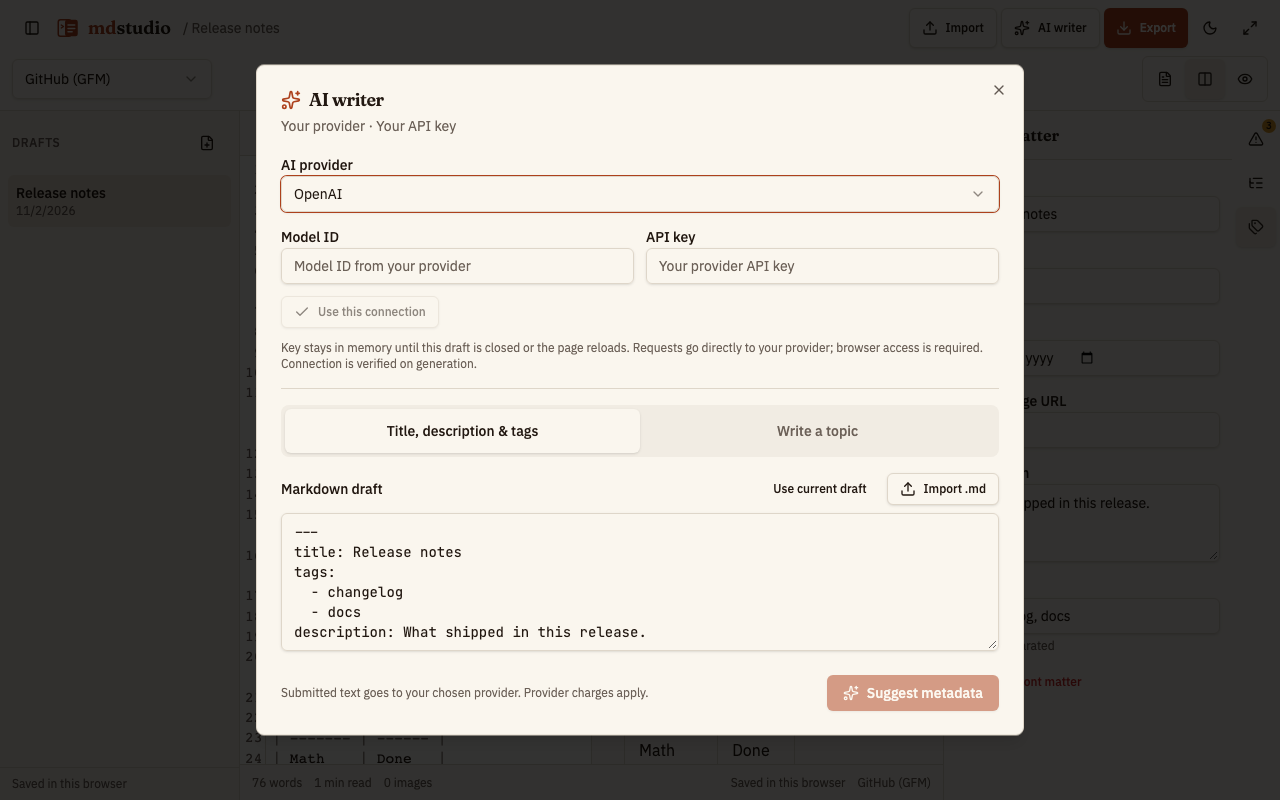
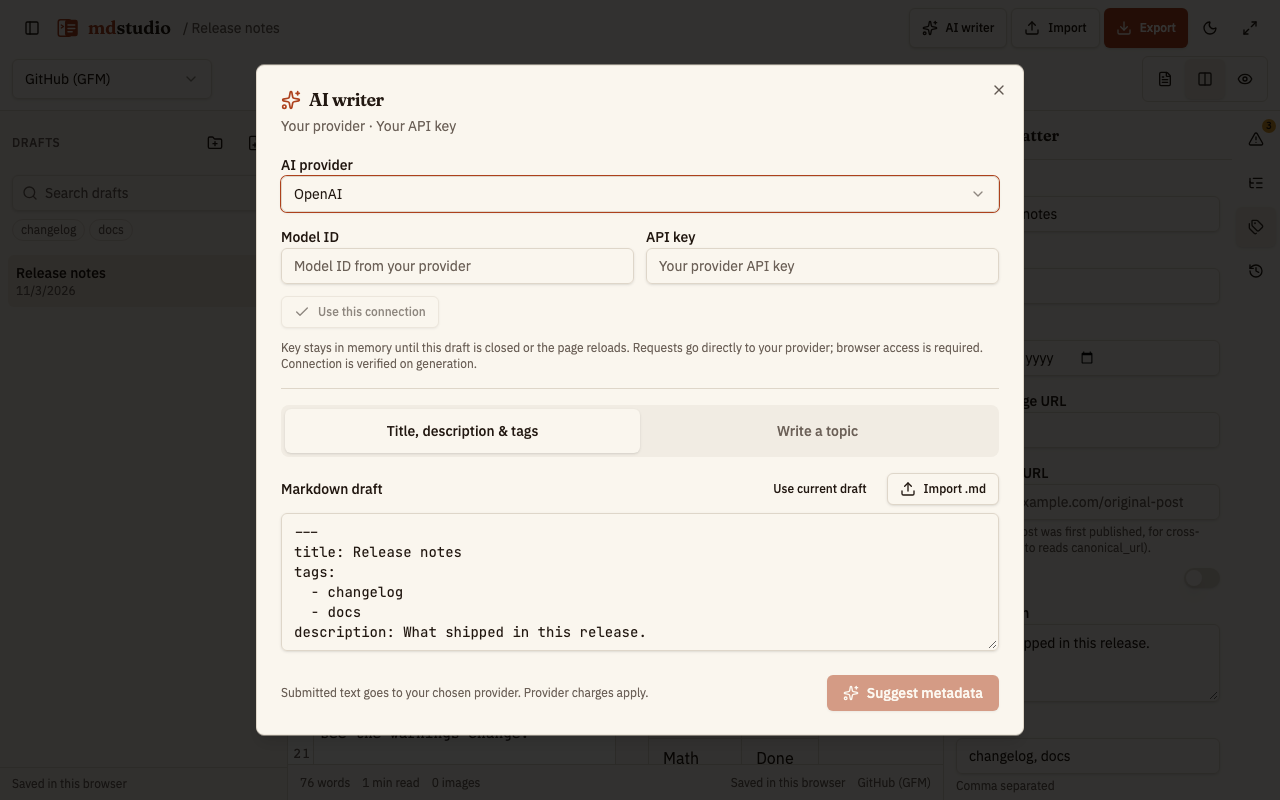
docs: refresh the screenshots and the docs and copy that describe the UI
- Screenshot script: open the Checks panel for its shot (it starts closed below 1536px) and
  add the rules dialog, export menu, history compare and library.
- Regenerate every screenshot; README, UI spec and feature roadmap now match the current UI
  and mark what is and is not done.
- Home page, structured data, FAQ and llms.txt describe the library, history, ZIP import and
  export, custom rules and offline use. The copy test now only bans claims that are not built
  (cloud sync, collaboration, real-time).
- Fix stale statuses in the product and system specs and the roadmap.
- PR template and CONTRIBUTING ask for a screenshot refresh when the UI changes.

diff --git a/src/lib/site/seo-content.ts b/src/lib/site/seo-content.ts
@@ -31,7 +31,12 @@ export const FEATURE_LIST = [
   "KaTeX math and Mermaid diagrams",
   "Local-first drafts stored in the browser (IndexedDB), no account needed",
   "Import .md files and paste from Google Docs, Notion and the web",
-  "Export clean UTF-8 Markdown or standalone HTML",
+  "Export clean UTF-8 Markdown or standalone HTML, or every draft at once as a ZIP",
+  "Import ZIP archives and whole folders of Markdown files",
+  "Search, tag filters and folders for your drafts, all kept in the browser",
+  "Version history with a side-by-side compare and one-click restore",
+  "Custom checker rules and publication standards, shareable as a file",
+  "Works offline and installs as an app",
   "Bring-your-own-key AI writing helpers",
   "Open source under the MIT license, self-hostable with Docker",
 ];
@@ -65,6 +70,16 @@ export const FAQ: Faq[] = [
     question: "Are my documents private?",
     answer:
       "Yes. Drafts are saved in your browser's IndexedDB and are not uploaded anywhere. There is no account to create. If you use the optional AI helpers, your API key stays in memory for the session and requests go directly from your browser to the provider you choose.",
+  },
+  {
+    question: "Does mdstudio work offline?",
+    answer:
+      "Yes. After your first visit the studio opens and keeps working without a connection, saves your drafts in the browser, and can be installed as an app. Only the optional AI helpers need a network connection.",
+  },
+  {
+    question: "Can I organise many drafts and go back to an earlier version?",
+    answer:
+      "Yes. Search your drafts, filter them by tag and keep them in folders. mdstudio saves versions as you write, shows a side-by-side comparison with the current draft, and restores any version in one click. You can also export every draft as a ZIP.",
   },
   {
     question: "Which Markdown flavors and platforms does it check?",

diff --git a/src/routes/index.tsx b/src/routes/index.tsx
@@ -10,6 +10,9 @@ import {
   ShieldCheck,
   Upload,
   Eye,
+  FolderTree,
+  History,
+  WifiOff,
 } from "lucide-react";
 import { Button } from "@/components/ui/button";
 import { SiteFooter } from "@/components/site/SiteFooter";
@@ -70,6 +73,21 @@ const features = [
     icon: FileDown,
     title: "Clean export",
     body: "Download or copy .md with UTF-8 and LF endings, optional normalizing, and self-contained images.",
+  },
+  {
+    icon: FolderTree,
+    title: "A library that scales",
+    body: "Search every draft, filter by tag, organise folders by drag and drop, and move everything as a ZIP.",
+  },
+  {
+    icon: History,
+    title: "Version history",
+    body: "Versions are kept as you write. Compare any of them side by side with the draft and restore it.",
+  },
+  {
+    icon: WifiOff,
+    title: "Works offline",
+    body: "Open it with no connection and keep writing. Install it as an app if you like.",
   },
   {
     icon: Lock,

diff --git a/src/lib/site/seo.test.ts b/src/lib/site/seo.test.ts
@@ -61,7 +61,8 @@ describe("brand copy", () => {
   });
   it("makes no claims the product cannot back up yet", () => {
     const text = [BRAND.description, ...FEATURE_LIST, ...FAQ.map((f) => f.answer)].join(" ");
-    expect(text).not.toMatch(/offline|sync|collaborat|real-time/i);
+    // offline use is real (service worker, tested), cloud sync and collaboration are not built yet
+    expect(text).not.toMatch(/cloud sync|sync across|collaborat|real-time/i);
   });
 });
 

diff --git a/docs/FEATURES_ROADMAP.md b/docs/FEATURES_ROADMAP.md
@@ -6,25 +6,27 @@ Status: ✅ done · 🔜 next · 🗓 later. Each feature lists acceptance crite
 Editor, strict preview, scroll sync, profiles + portability checker, import/drag-drop, rich paste → MD, exports (md, self-contained md, html copy, standalone html, normalize), front matter form, outline, stats, focus mode, IndexedDB library with autosave, image compression, BYOK AI (metadata + write), responsive phone/tablet/desktop, 31 tests.
 
 ## Phase 1 — Writer polish 🔜
-1. **Dark mode toggle** (tokens exist). AC: persists per device; preview + editor + hljs themed.
+1. ✅ **Dark mode toggle** (tokens exist). AC: persists per device; preview + editor + hljs themed.
 2. **Command palette** (cmdk, Mod-P): every action reachable. AC: fuzzy search, keyboard only.
 3. **Quick fixes in Checks**: one-click fix per rule (e.g. trailing-break → backslash, mixed bullets → normalize, wiki-link → standard link). AC: fix changes only the flagged range; undoable.
 4. **Find & replace with regex**, word goal, session timer.
-5. **Table editor** (grid UI → GFM table) and **link/image dialogs** with alt-text enforcement (checker rule: missing alt).
-6. **More checks**: heading level skips, duplicate headings/anchors, broken internal anchors, missing alt text, overly long lines in tables, empty links.
-7. **Paste-image from clipboard** and image manager panel (rename, delete unused, size).
+5. **Table editor** (grid UI → GFM table) and **link/image dialogs** with alt-text enforcement (checker rule: missing alt). Done: link and image dialogs, the missing-alt rule, a table dialog and table cell commands. Not done: a grid UI.
+6. **More checks**: heading level skips, duplicate headings/anchors, broken internal anchors, missing alt text, overly long lines in tables, empty links. Done: heading level skips and a single H1 (the heading-structure standard) and missing alt text. Not done: duplicate headings, broken anchors, empty links, long table lines.
+7. **Paste-image from clipboard** and image manager panel (rename, delete unused, size). Done: paste and drop with compression. Not done: the image manager panel.
 8. **Spellcheck / grammar** toggle (browser native first).
 9. ✅ **Math (KaTeX) and Mermaid**, profile-gated: rendered only where the target platform renders them, flagged elsewhere. AC: sanitize before KaTeX (`trust: false`), Mermaid `securityLevel: "strict"` and lazy-loaded, KaTeX CSS/fonts self-hosted, standalone HTML export embeds both.
-10. **Complete formatting toolbar**: every Markdown/GFM construct and profile extension (headings 1-6, emphasis, code, links, images, quotes, lists, task lists, tables, rules, footnotes, math, diagrams, alerts). AC: grouped, overflow menu on phones, shortcuts in tooltips, tools flagged when the profile can't render them, edit actions are pure tested functions.
-11. **Obsidian profile rendering**: `==highlight==` renders as a marker (done); render `[[wiki-links]]` in the Obsidian profile so the preview matches the platform.
-12. **Studio polish**: rename draft, canonical URL and draft toggle in front matter.
+10. ✅ **Complete formatting toolbar**: every Markdown/GFM construct and profile extension (headings 1-6, emphasis, code, links, images, quotes, lists, task lists, tables, rules, footnotes, math, diagrams, alerts). AC: grouped, overflow menu on phones, shortcuts in tooltips, tools flagged when the profile can't render them, edit actions are pure tested functions.
+11. ✅ **Obsidian profile rendering**: `==highlight==` renders as a marker (done); render `[[wiki-links]]` in the Obsidian profile so the preview matches the platform.
+12. ✅ **Studio polish**: rename draft, canonical URL and draft toggle in front matter.
+13. ✅ **Custom checker rules**: turn built-in rules on or off and change their severity, publication standards, your own text or regex rules, shareable as JSON and overridable per draft.
+14. ✅ **Click-through sync**: click a block in the preview to jump to its source line, and scroll sync by line.
 
 ## Phase 2 — Library & organization 🔜
-1. **Full-text search** across drafts (MiniSearch in a worker).
-2. **Folders/collections, tags, pin, status** (idea / draft / review / published).
+1. ✅ **Full-text search** across drafts (done in memory with tag filtering; no search index or worker was needed).
+2. **Folders/collections, tags, pin, status** (idea / draft / review / published). Done: folders (drag and drop, rename, delete) and tags from front matter. Not done: pin and status.
 3. **Trash** with 30-day restore.
-4. **Version history**: snapshot on idle (every N minutes / significant change) and before AI apply / import; diff viewer; restore. Store `document_versions` in IndexedDB.
-5. **Bulk import/export**: zip of `.md` + `images/` (JSZip); import a folder/zip preserving relative images.
+4. ✅ **Version history**: snapshot every few minutes, on demand and before a restore; side-by-side diff; restore. (Snapshots before AI apply and import are not taken.)
+5. ✅ **Bulk import/export**: zip of `.md` + `images/` (own ZIP reader and writer, no JSZip); import a folder or ZIP preserving relative images.
 6. **Templates**: blog post, release notes, README, tutorial; per-platform front matter (Astro, Hugo, Jekyll, Docusaurus, dev.to, Hashnode). AC: front matter keys match platform docs.
 
 ## Phase 3 — Publishing 🗓
@@ -44,7 +46,7 @@ AC: dry-run view; failures shown with fix; no token persisted unless user opts i
 6. Workspaces/teams with roles (owner/editor/viewer) stored in a separate roles table.
 
 ## Phase 5 — Platform & quality 🗓
-1. **PWA**: installable, offline, file-handling for `.md` (File System Access API save-in-place on desktop).
+1. **PWA**: installable, offline, file-handling for `.md` (File System Access API save-in-place on desktop). Done: installable and offline. Not done: file handling.
 2. **Optional rendering extensions** behind explicit profile: callouts (GitHub alerts) — always flagged as non-portable outside that profile. Math (KaTeX) and Mermaid moved up: see Phase 1, item 9.
 3. **AI extras** (still BYOK): rewrite selection, summarize, SEO check, alt-text suggestions, translate, tone; diff review before apply; token/cost estimate; local models via OpenAI-compatible (Ollama).
 4. **Accessibility**: WCAG AA contrast, full keyboard, screen-reader labels, reduced motion.

diff --git a/README.md b/README.md
@@ -27,17 +27,25 @@ mdstudio keeps your **raw Markdown as the single source of truth**. The preview 
 
 ## Features
 
-- **Faithful live preview.** Strict CommonMark and GitHub Flavored Markdown, sanitized, with syntax-highlighted code.
+- **Faithful live preview.** Strict CommonMark and GitHub Flavored Markdown, sanitized, with syntax-highlighted code. Scrolling stays aligned line by line, and clicking a block in the preview puts the editor cursor on its source line.
 - **Portability checker.** Raw HTML, local images and links, base64 images, wiki-links, `==highlights==`, math, Mermaid, trailing-space line breaks, missing alt text, unclosed tags and more. Every issue is clickable. Turn rules on or off, add publication standards (title and description length, required front matter, heading structure) and your own text or regex rules, and share them as a JSON file.
 - **Target profiles.** Strict CommonMark, GitHub, dev.to / Hashnode and Obsidian. The preview, the checks and the toolbar warnings follow your choice.
 - **Complete formatting toolbar.** Marks, headings, lists, task lists, links, images, footnotes, rules, code blocks, tables with cell navigation, GitHub alerts, math, diagrams and HTML helpers. Fully keyboard accessible.
 - **Math and diagrams.** KaTeX and Mermaid, rendered on demand, themed for light and dark.
 - **Local-first and private.** Drafts autosave to your browser's IndexedDB. No account, no uploads.
-- **Import and export.** Open `.md` files or paste from Google Docs, Notion and the web. Export clean UTF-8 Markdown (LF endings), self-contained Markdown with embedded images, or standalone HTML.
+- **A library that scales.** Search every draft, filter by tag, organise drafts in folders (drag and drop), and rename them without touching the text.
+- **Version history.** Versions are kept automatically as you write; compare any of them side by side with the current draft and restore it.
+- **Works offline.** The studio keeps working with no connection and can be installed as an app.
+- **Import and export.** Open `.md` files, a ZIP or a whole folder, or paste from Google Docs, Notion and the web. Export clean UTF-8 Markdown (LF endings), self-contained Markdown with embedded images, standalone HTML, or every draft at once as a ZIP.
 - **Optional AI writer, bring your own key.** OpenAI, Anthropic, Gemini or any OpenAI-compatible endpoint (Ollama, OpenRouter, Groq). Keys stay in session memory and requests go straight from your browser to the provider.
 - **Responsive and themed.** Split view on desktop, single pane with drawers on phones, light and dark mode.
 - **Self-hostable.** One Docker container with SQLite, or Cloudflare Workers.
 - **Guides.** Seven practical [guides to portable Markdown](https://mdstudio.deityhub.com/guides), written in Markdown and rendered by mdstudio itself.
+
+<p align="center">
+  <img src="docs/ui-screenshots/13_library.png" alt="The drafts library with search, tags and folders" width="440">
+  <img src="docs/ui-screenshots/12_history_compare.png" alt="Comparing a saved version with the current draft" width="440">
+</p>
 
 <p align="center">
   <img src="docs/ui-screenshots/09_editor_dark.png" alt="mdstudio in dark mode" width="440">

diff --git a/docs/UI_SPEC.md b/docs/UI_SPEC.md
@@ -14,7 +14,7 @@ Header: the `Logo` (two-pages mark plus the **md**studio wordmark, linking home)
 ## 1b. Guides `/guides` and `/guides/$slug`
 Shared `SiteHeader` and `SiteFooter` (the footer links to Guides, the source and the changelog). The index lists every guide with its description and update date. A guide page has breadcrumbs, the title as the single `h1`, an "Updated … · N min read" line, an "On this page" list of section links, the article (`.md-preview`), a call to action to open the editor, and three related guides. Unknown slugs return a real 404. The home page links to the first three guides.
 
-## 2. Studio desktop `/editor/$docId` — `02_editor_split_view.png`
+## 2. Studio desktop `/editor/$docId` — `02_editor_split_view.png`, `13_library.png`, `11_export_menu.png`
 - **Top bar, row 1:** drafts toggle · wordmark link and current title · Import dropdown (files or a ZIP, or a folder) · Install (only when the browser offers to install the app) · AI writer · Export dropdown (including Download all drafts as a ZIP) · Focus mode.
 - **Top bar, row 2:** target-platform Select (GitHub, Strict CommonMark, dev.to / Hashnode, Obsidian; remembered per device) · view toggle (Editor / Split / Preview) · panel buttons on mid-size screens.
 - **Export dropdown:** Download .md, Copy Markdown, Download self-contained .md and Copy self-contained Markdown (both enabled only when the draft has local images), Copy rendered HTML, Download standalone .html, and the "Normalize on export" switch.
@@ -38,10 +38,12 @@ Shared `SiteHeader` and `SiteFooter` (the footer links to Guides, the source and
 - **Side panel buttons:** Checks (badge with the count of warnings and errors), Outline, Front matter, History (saved versions of the draft; opening one shows a side-by-side comparison with the current text and a Restore button).
 - **Status bar:** words · reading time · image count · an "Offline" note when there is no connection · save status (Saving… / Saved in this browser / Not saved) · target platform.
 
-## 3. Checks panel — `03_editor_checks_panel.png`
+## 3. Checks panel and rules — `03_editor_checks_panel.png`, `10_checker_rules.png`
 A **Rules** button at the top opens the Checker rules dialog (tabs Portability, Standards, Your rules; switches, severities and limits; Export, Import and Reset to defaults; a note on changing rules per draft from its front matter). Below it, one card per issue, sorted by line: severity icon, `L<line>` and a one-sentence message; issues from a standard or from the writer's own rules carry a small `standard · rule-id` or `yours · rule-id` tag. Clicking a card switches to the editor and jumps to that line. Rules are listed in `SYSTEM_SPEC.md` §4.1 and §4.2.
 
 ## 4. Outline — `04_editor_outline_panel.png`
+The **History** panel (the clock button beside Checks, Outline and Front matter) is shown in `12_history_compare.png`: a list of saved versions and, once one is opened, a side-by-side comparison with the current draft.
+
 Indented heading list; clicking jumps to the heading's line.
 
 ## 5. Front matter — `04_editor_frontmatter_panel.png`

diff --git a/docs/SYSTEM_SPEC.md b/docs/SYSTEM_SPEC.md
@@ -101,7 +101,7 @@
 | **Client Storage**    | IndexedDB (raw, no wrapper library)                                                                                                                                                                                                                                                                                                             | Reliable client-side persistence for large drafts and base64 image blobs.                                             |
 | **Database ORM**      | Drizzle ORM (SQLite dialect)                                                                                                                                                                                                                                                                                                                    | Identical type-safe SQL queries run on Cloudflare D1 and `better-sqlite3`.                                            |
 | **Object Storage**    | Cloudflare R2 / Local Filesystem                                                                                                                                                                                                                                                                                                                | S3-compatible, zero egress costs on Cloudflare; flat directory structure on Docker.                                   |
-| **Testing**           | Vitest + Testing Library (unit/integration). Playwright e2e is planned with the CI workflow                                                                                                                                                                                                                                                     | Fast AST unit tests now; end-to-end browser automation for flows that need a real browser (IndexedDB, import/export). |
+| **Testing**           | Vitest + Testing Library (unit/integration). Playwright e2e runs in CI against the production build (Chromium)                                                                                                                                                                                                                                                     | Fast AST unit tests now; end-to-end browser automation for flows that need a real browser (IndexedDB, import/export). |
 
 ### 3.2 Repository Structure
 

diff --git a/docs/PRODUCT_SPEC.md b/docs/PRODUCT_SPEC.md
@@ -30,7 +30,7 @@ Rebuild of github.com/Deityhub/markdown-previewer. Problems in the original: Rea
 | U5 | Self-contained `.md` with images embedded as base64 | Done |
 | U6 | Check portability for a target platform | Done |
 | U7 | Edit blog front matter (title, description, tags, date, slug, cover…) | Done |
-| U8 | Manage many drafts locally (new, duplicate, delete, autosave; rename planned) | Done (rename planned) |
+| U8 | Manage many drafts locally (new, duplicate, rename, delete, autosave) | Done |
 | U9 | AI: suggest title/description/tags; write a draft from a topic | Done |
 | U10 | Use on phone | Done |
 | U11 | Publish directly to GitHub repo / dev.to / Hashnode / Ghost / WordPress | Planned |
@@ -41,8 +41,8 @@ Rebuild of github.com/Deityhub/markdown-previewer. Problems in the original: Rea
 | U16 | Image hosting / upload to absolute URLs | Planned |
 | U17 | Offline PWA install | Done |
 | U18 | Bulk import/export (zip of .md + images) | Done |
-| U19 | Math (KaTeX) and Mermaid diagrams, shown only where the target platform renders them | Planned (next) |
-| U20 | Complete formatting toolbar covering every supported Markdown construct | Planned (next) |
+| U19 | Math (KaTeX) and Mermaid diagrams, shown only where the target platform renders them | Done |
+| U20 | Complete formatting toolbar covering every supported Markdown construct | Done |
 
 See `FEATURES_ROADMAP.md` for specs and acceptance criteria.
 

diff --git a/roadmap.md b/roadmap.md
@@ -19,7 +19,7 @@
 - [x] Mermaid dark theme
 - [x] README
 - [x] Content pages: seven guides rendered with the app's own pipeline
-- [ ] Cut v0.1.0
+- [x] Cut v0.1.0 (v0.1.0 to v0.1.3 are released)
 
 ## Milestone 1: Core Writing Studio & Portability (Completed)
 
@@ -39,7 +39,7 @@
 
 ---
 
-## Milestone 2: PWA, Local History & Advanced Library (Target: Q1 2027)
+## Milestone 2: PWA, Local History & Advanced Library (complete)
 
 - [x] **PWA Support:** Web app manifest, service worker caching, and offline installation. (Pages and files are kept as you use them online; the app badge is not done.)
 - [x] **Local Document History:** Automatic periodic snapshots stored in IndexedDB with visual side-by-side diff and one-click restore.

diff --git a/CONTRIBUTING.md b/CONTRIBUTING.md
@@ -30,6 +30,8 @@ bun run e2e         # builds the self-hosted output and runs Playwright
 bun run licenses   # only needed after changing dependencies
 ```
 
+If you changed how the UI looks, also run `bun run screenshots` (it rebuilds the app and rewrites `docs/ui-screenshots/`), look at the images it changes, and update `README.md` and `docs/UI_SPEC.md` where they describe that part of the UI.
+
 ## Dependencies
 
 Prefer a few lines in this project over a new package. A new dependency must pass `bun run licenses`;

diff --git a/.github/PULL_REQUEST_TEMPLATE.md b/.github/PULL_REQUEST_TEMPLATE.md
@@ -5,3 +5,4 @@
 - [ ] Tests added or updated
 - [ ] `bun run lint`, `bun run test` and `bun run build` pass
 - [ ] Docs updated if behavior or the spec changed
+- [ ] If the UI changed: ran `bun run screenshots` and updated the docs that describe it
